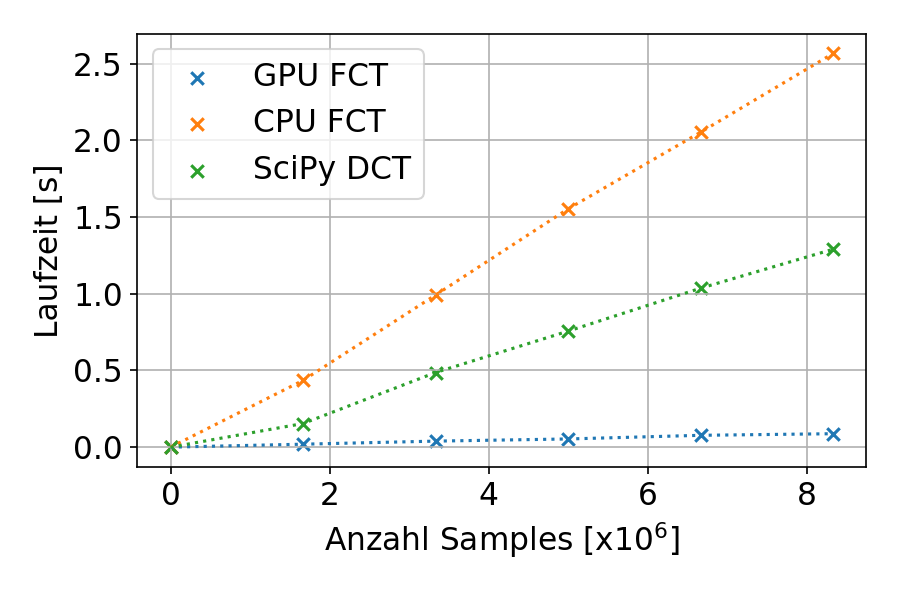
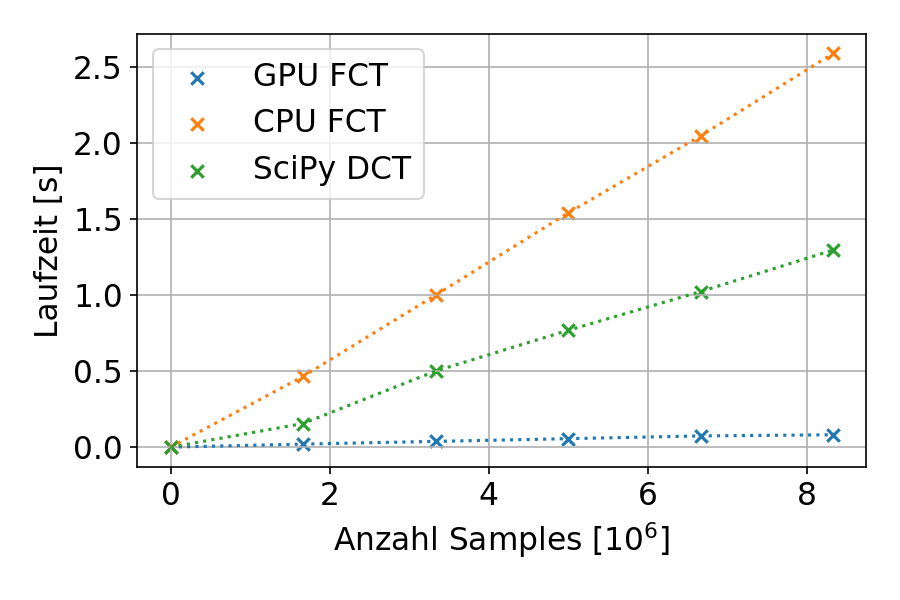
Redo

diff --git a/dct/stopwatch.py b/dct/stopwatch.py
@@ -22,9 +22,9 @@ def generate_samples(number_samples):
     return np.random.rand(number_samples) # signal
 
 samples_cases = []
-gpu = []
-cpu = []
-s_dct = []
+times_gpu = []
+times_cpu = []
+times_scipy = []
 # for s in SAMPLES:
 for s in SAMPLES[:-1]:
     print(s)
@@ -51,7 +51,8 @@ for s in SAMPLES[:-1]:
         # cupy reenable fft caching
         fft_cache.set_size(16)
         fft_cache.set_memsize(-1)
-    gpu.append(np.average(times))
+    times_gpu.append(np.average(times))
+    del times
     
     times = []
     for t in range(NUMBER_RUNS):
@@ -60,8 +61,9 @@ for s in SAMPLES[:-1]:
         dct_cpu(x_cpu)
         tack = time.time()
         times.append(tack-tick)
-    cpu.append(np.average(times))
-
+    times_cpu.append(np.average(times))
+    del times
+ 
     times = []
     for t in range(NUMBER_RUNS):
         tick = time.time()
@@ -69,8 +71,9 @@ for s in SAMPLES[:-1]:
         scipy_dct(x_cpu)
         tack = time.time()
         times.append(tack-tick)
-    s_dct.append(np.average(times))
-
+    times_scipy.append(np.average(times))
+    del times
+ 
 
 # gpu[-1]/s_dct[-1]
 # Out[28]: 0.4483270253752866
@@ -95,12 +98,12 @@ ax.grid()
 # ax.set_xscale('log')
 
 scale=1e6
-ax.plot(np.array(samples_cases)/scale,gpu,':')
-ax.scatter(np.array(samples_cases)/scale,gpu,marker='x',label='GPU FCT')
-ax.plot(np.array(samples_cases)/scale,cpu,':')
-ax.scatter(np.array(samples_cases)/scale,cpu,marker='x',label='CPU FCT')
-ax.plot(np.array(samples_cases)/scale,s_dct,':')
-ax.scatter(np.array(samples_cases)/scale,s_dct,marker='x',label='SciPy DCT')
+ax.plot(np.array(samples_cases)/scale,times_gpu,':')
+ax.scatter(np.array(samples_cases)/scale,times_gpu,marker='x',label='GPU FCT')
+ax.plot(np.array(samples_cases)/scale,times_cpu,':')
+ax.scatter(np.array(samples_cases)/scale,times_cpu,marker='x',label='CPU FCT')
+ax.plot(np.array(samples_cases)/scale,times_scipy,':')
+ax.scatter(np.array(samples_cases)/scale,times_scipy,marker='x',label='SciPy DCT')
 # ax.plot(np.array(samples_cases),gpu,':')
 # ax.scatter(np.array(samples_cases),gpu,marker='x',label='GPU FCT')
 # ax.plot(np.array(samples_cases),cpu,':')
@@ -116,16 +119,21 @@ ax.scatter(np.array(samples_cases)/scale,s_dct,marker='x',label='SciPy DCT')
 # ax.scatter(np.array(samples_cases)/1e6,s_dct,marker='x',label='SciPy DCT')
 
 # ax.set_xlabel(r'Anzahl Samples')
-ax.set_xlabel(r'Anzahl Samples [x$10^6$]')
+ax.set_xlabel(r'Anzahl Samples [$10^6$]')
 ax.set_ylabel('Laufzeit [s]')
 # ax.set_title(f'Average of {NUMBER_RUNS} runs')
 ax.legend()
 fig.tight_layout()
 plt.savefig('cupy_dpi150_equi.png', dpi=150)
-
+print('CPU', times_cpu)
+print('GPU', times_gpu)
+print('SciPy', times_scipy)
 # 10
 # 1666675
 # 3333340
 # 5000005
 # 6666670
 # 8333335
+# CPU [1.8707911173502605e-05, 0.46543815930684407, 0.9996662616729737, 1.5396260738372802, 2.0466949144999185, 2.588409741719564]
+# GPU [0.0003750006357828776, 0.020332829157511393, 0.038063700993855795, 0.05600449244181315, 0.07395466168721516, 0.08154873847961426]
+# SciPy [6.898244222005208e-06, 0.15553059577941894, 0.5004561424255372, 0.7681824048360189, 1.0229304631551106, 1.2959437847137452]
